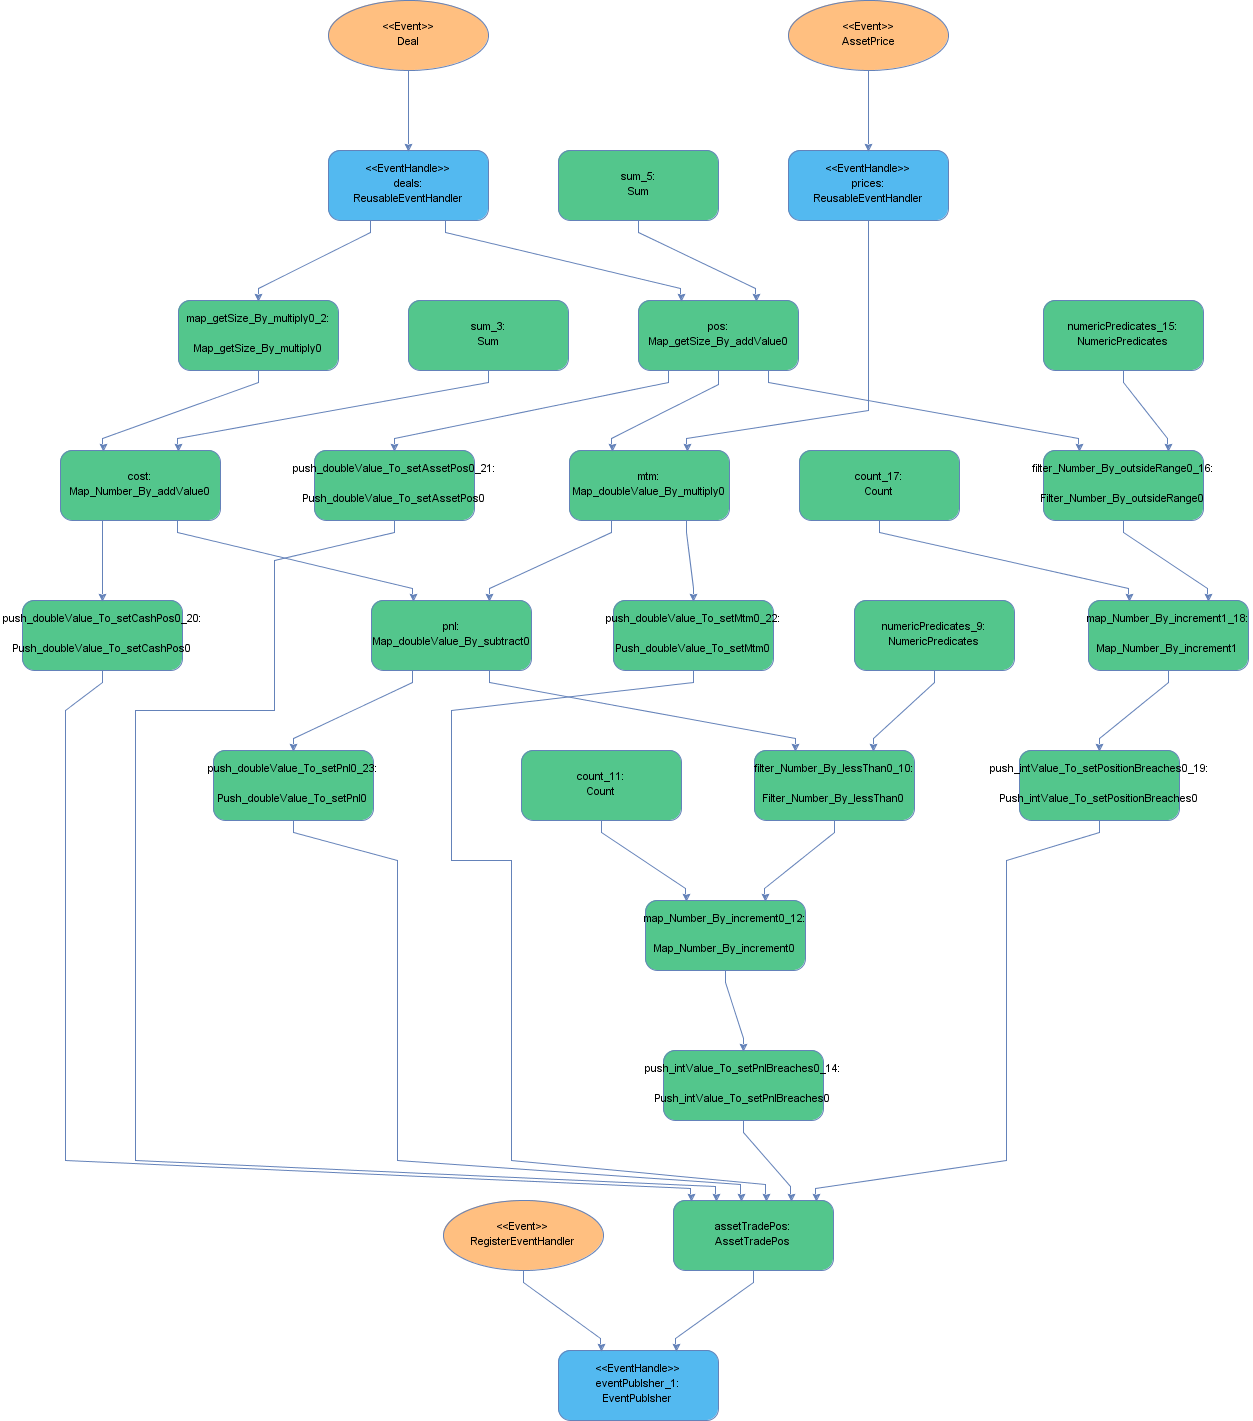
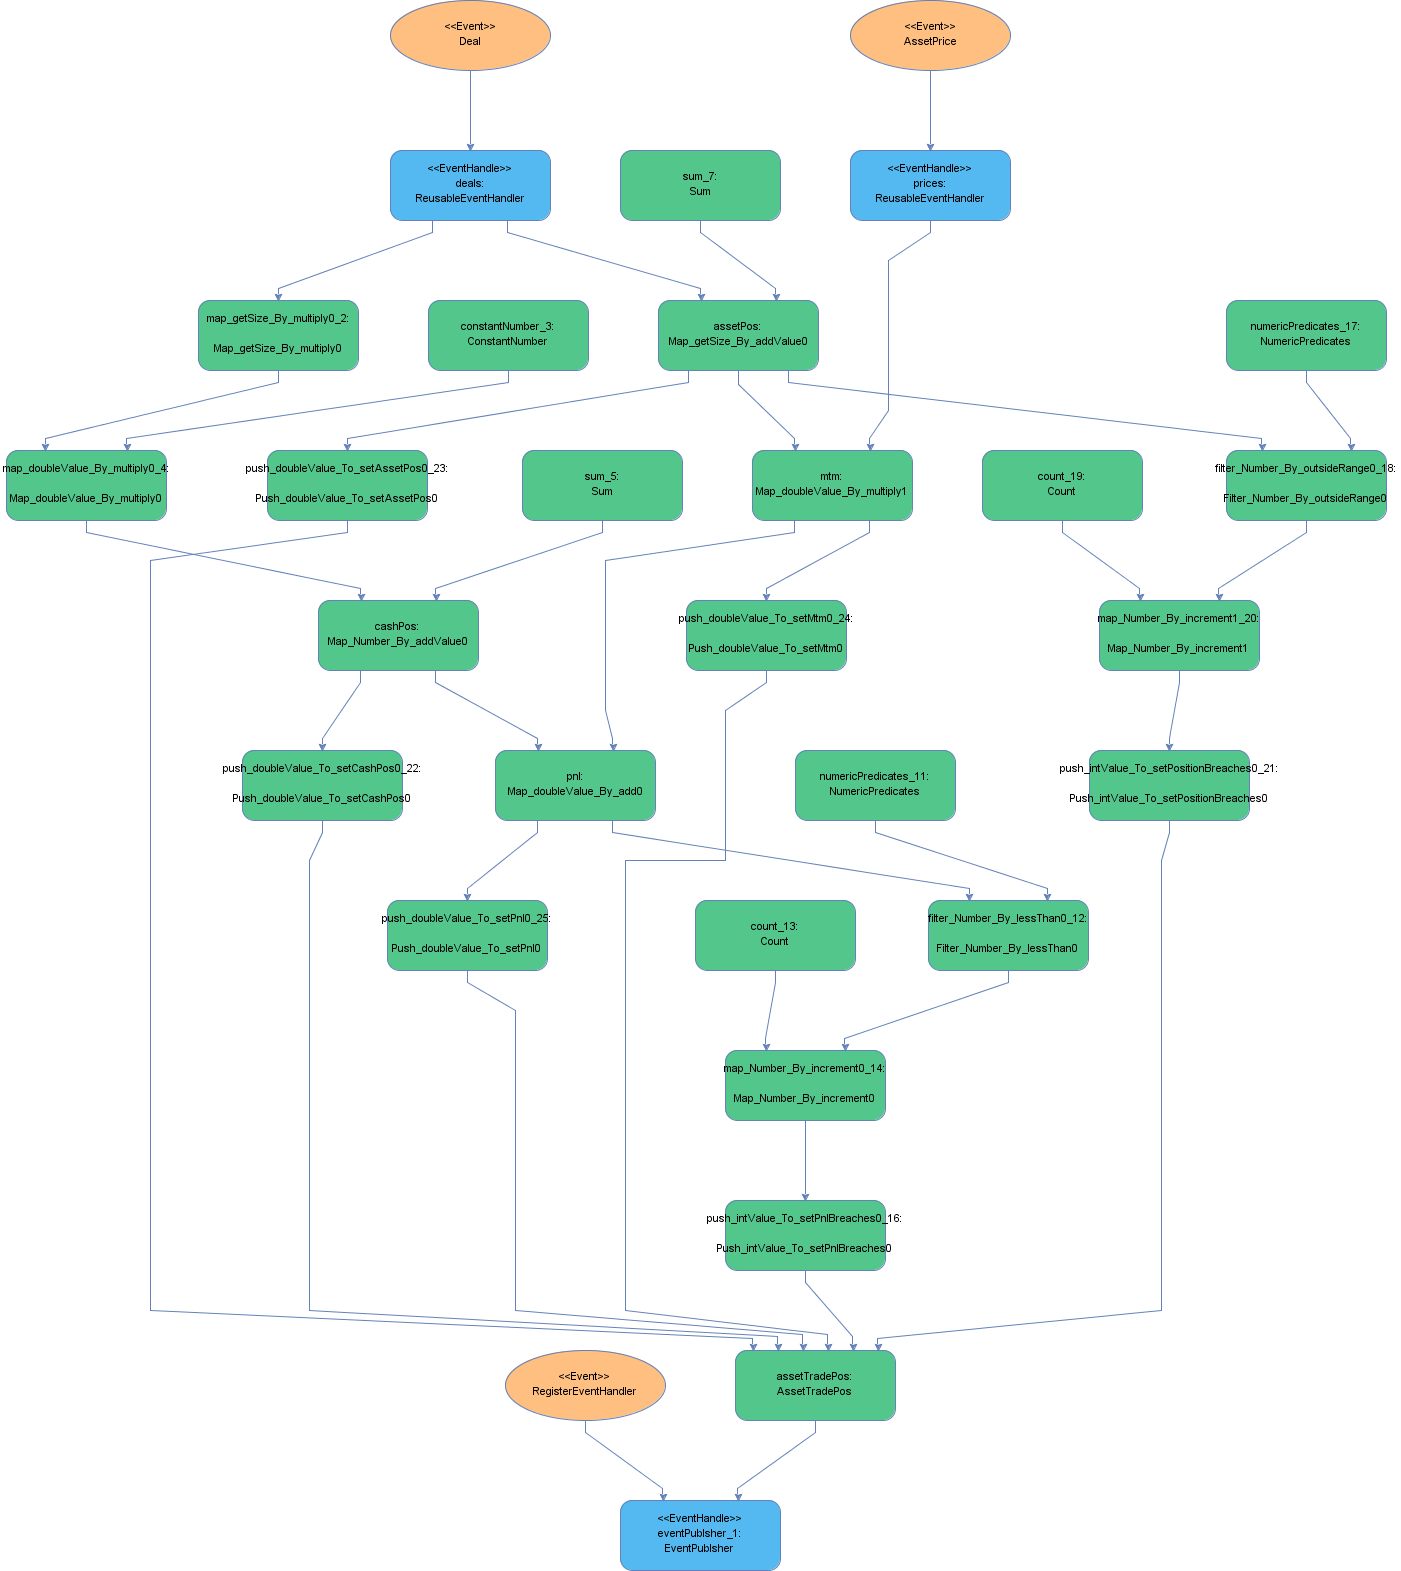
new generate test data utility bumped fluxtion version to snapshot Csv parsers now handles windows line endings inverted sign of cashpos change filter value on portfolio renmaed cost to cashPos renamed pos to assetPos

diff --git a/case-studies/trading-monitor/src/main/java/com/fluxtion/examples/tradingmonitor/FluxtionBuilder.java b/case-studies/trading-monitor/src/main/java/com/fluxtion/examples/tradingmonitor/FluxtionBuilder.java
@@ -24,10 +24,10 @@ import static com.fluxtion.ext.streaming.api.stream.NumericPredicates.lt;
 import static com.fluxtion.ext.streaming.api.stream.NumericPredicates.outsideBand;
 import static com.fluxtion.ext.streaming.builder.event.EventSelect.select;
 import static com.fluxtion.ext.streaming.builder.stream.StreamBuilder.stream;
+import static com.fluxtion.ext.streaming.builder.stream.StreamFunctionsBuilder.add;
 import static com.fluxtion.ext.streaming.builder.stream.StreamFunctionsBuilder.count;
 import static com.fluxtion.ext.streaming.builder.stream.StreamFunctionsBuilder.cumSum;
 import static com.fluxtion.ext.streaming.builder.stream.StreamFunctionsBuilder.multiply;
-import static com.fluxtion.ext.streaming.builder.stream.StreamFunctionsBuilder.subtract;
 import static com.fluxtion.ext.streaming.builder.util.FunctionArg.arg;
 import com.fluxtion.ext.text.api.event.EofEvent;
 
@@ -38,22 +38,24 @@ import com.fluxtion.ext.text.api.event.EofEvent;
 public class FluxtionBuilder {
 
     @SepBuilder(name = "SymbolTradeMonitor", 
-            packageName = "com.fluxtion.examples.tradingmonitor.generated.symbol")
+            packageName = "com.fluxtion.examples.tradingmonitor.generated.symbol"
+    )
     public void buildAssetAnalyser(SEPConfig cfg) {
         //entry points
         Wrapper<Deal> deals = select(Deal.class);
         Wrapper<AssetPrice> prices = select(AssetPrice.class);
         AssetTradePos results = cfg.addPublicNode(new AssetTradePos(), "assetTradePos");
         //calculate derived values
-        Wrapper<Number> cost = deals
+        Wrapper<Number> cashPosition = deals
                 .map(multiply(), Deal::getSize, Deal::getPrice)
+                .map(multiply(),Number::doubleValue, -1)
                 .map(cumSum());
         Wrapper<Number> pos = deals.map(cumSum(), Deal::getSize);
         Wrapper<Number> mtm = pos.map(multiply(), Number::doubleValue,
                 arg(prices, AssetPrice::getPrice));
-        Wrapper<Number> pnl = subtract(mtm, cost);
+        Wrapper<Number> pnl = add(mtm, cashPosition);
         //add some rules - only fires on first breach
-        pnl.filter(lt(-2000))
+        pnl.filter(lt(-200))
                 .notifyOnChange(true)
                 .map(count())
                 .push(Number::intValue, results::setPnlBreaches);
@@ -62,7 +64,7 @@ public class FluxtionBuilder {
                 .map(count())
                 .push(Number::intValue, results::setPositionBreaches);
         //collect into results
-        cost.push(Number::doubleValue, results::setCashPos);
+        cashPosition.push(Number::doubleValue, results::setCashPos);
         pos.push(Number::doubleValue, results::setAssetPos);
         mtm.push(Number::doubleValue, results::setMtm);
         pnl.push(Number::doubleValue, results::setPnl);
@@ -72,8 +74,8 @@ public class FluxtionBuilder {
         //give some human readable names to nodes - not required 
         deals.id("deals");
         prices.id("prices");
-        cost.id("cost");
-        pos.id("pos");
+        cashPosition.id("cashPos");
+        pos.id("assetPos");
         mtm.id("mtm");
         pnl.id("pnl");
     }
@@ -82,7 +84,7 @@ public class FluxtionBuilder {
             packageName = "com.fluxtion.examples.tradingmonitor.generated.portfolio")
     public void buildPortfolioAnalyser(SEPConfig cfg) {
         PortfolioTradePos portfolio = cfg.addNode(new PortfolioTradePos());
-        stream(portfolio).filter( PortfolioTradePos::getPnl, lt(-10_000))
+        stream(portfolio).filter( PortfolioTradePos::getPnl, lt(-1_000))
                 .map(count())
                 .notifierOverride(select(EofEvent.class))
                 .console("portfolio loss gt 10k count -> ");

diff --git a/case-studies/trading-monitor/src/main/java/com/fluxtion/examples/tradingmonitor/util/GenerateTestData.java b/case-studies/trading-monitor/src/main/java/com/fluxtion/examples/tradingmonitor/util/GenerateTestData.java
@@ -5,37 +5,51 @@
  */
 package com.fluxtion.examples.tradingmonitor.util;
 
+import java.util.Random;
 import org.apache.logging.log4j.Level;
 import org.apache.logging.log4j.LogManager;
 import org.apache.logging.log4j.Logger;
+
 /**
  *
  * @author Greg Higgins greg.higgins@v12technology.com
  */
 public class GenerateTestData {
+
     private static Logger logger = LogManager.getLogger();
     private static Logger testDataLog = LogManager.getLogger("testdatalog");
+    private static String[] assets = new String[]{"MSFT", "ORCL", "GOOG", "AMZN", "APPL", "FORD", "BTMN"};
+
     public static void main(String[] args) {
         logger.info("info message");
         logHeaders();
-        for(int i = 0; i<2_000_000; i++){
-            logPrice("MSFT", 10);
-            logTrade("MSFT",10,2);
+        for (int i = 0; i < 4_000_000; i++) {
+            String asset = assets[(int) (Math.random() * (assets.length))];
+            double price = (5 + Math.random()) * 3;
+            price = Math.round(price * 10000)/10000.0;
+            int size = (int) ((10 * Math.random()) - 5);
+            if (Math.random() > 0.9) {
+                logTrade(asset, size, price);
+            } else {
+                logPrice(asset, price);
+            }
         }
     }
-    
-    private static void logTrade(String symbol, int size, double price){
-        testDataLog.info("Deal,{},{},{}", symbol, size, price);
+
+    private static void logTrade(String symbol, int size, double price) {
+        if (size != 0) {
+            testDataLog.info("Deal,{},{},{}", symbol, size, price);
+        }
     }
-    
-    private static void logPrice(String symbol, double price){
+
+    private static void logPrice(String symbol, double price) {
         testDataLog.info("AssetPrice,{},{}", symbol, price);
     }
-    
-    private static void logHeaders(){
+
+    private static void logHeaders() {
         testDataLog.info("Deal,symbol,size,price");
         testDataLog.info("AssetPrice,symbol,price");
-        
+
     }
     
 }

diff --git a/case-studies/trading-monitor/src/main/java/com/fluxtion/examples/tradingmonitor/AssetPartitioner.java b/case-studies/trading-monitor/src/main/java/com/fluxtion/examples/tradingmonitor/AssetPartitioner.java
@@ -18,8 +18,6 @@ package com.fluxtion.examples.tradingmonitor;
 
 import com.fluxtion.api.event.Event;
 import com.fluxtion.api.event.RegisterEventHandler;
-import com.fluxtion.examples.tradingmonitor.AssetPrice;
-import com.fluxtion.examples.tradingmonitor.Deal;
 import com.fluxtion.examples.tradingmonitor.generated.portfolio.PortfolioTradeMonitor;
 import com.fluxtion.examples.tradingmonitor.generated.symbol.SymbolTradeMonitor;
 
